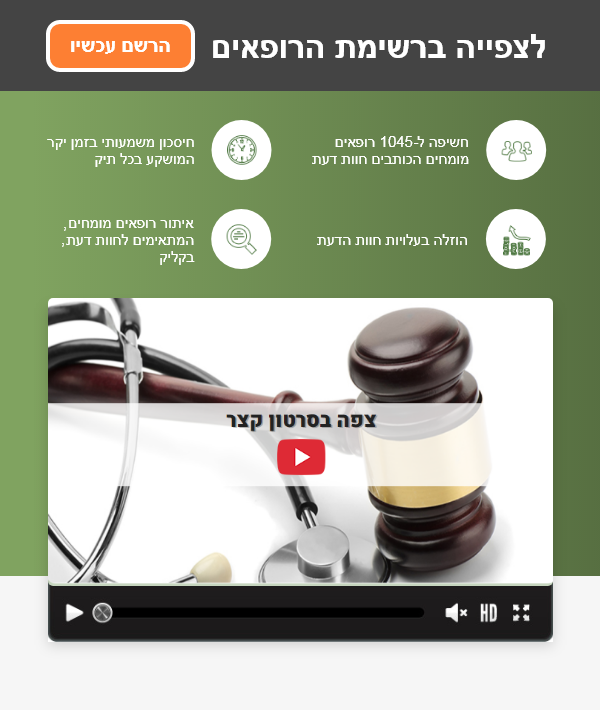
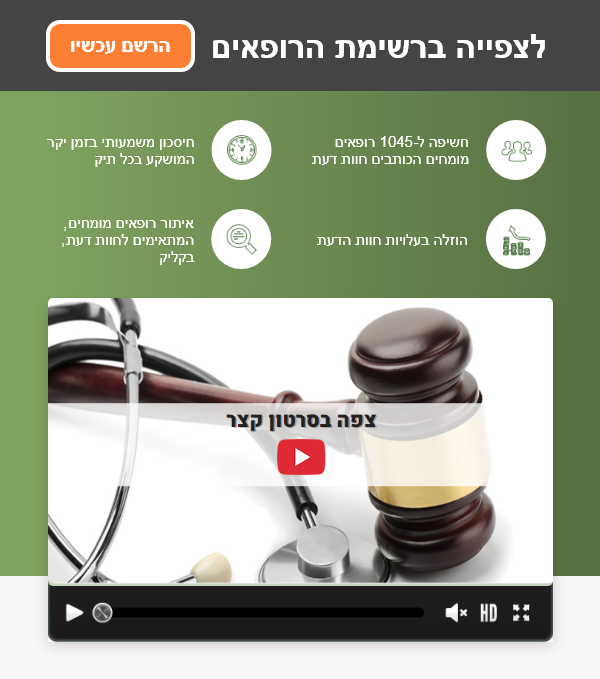
more fixed

diff --git a/index.html b/index.html
@@ -241,6 +241,9 @@
                             </tr>
                             <!-- name value -->
 
+
+
+
                             <tr>
                                 <td class="pt-35 pb-45" bgcolor="#f6f6f6"
                                     style="padding: 10px 15px 74px; padding-bottom: 0px">
@@ -318,9 +321,8 @@
                                         <center>
                                             <img src="inside.png" width="600" alt="לצפייה ברשימת הרופאים הרשם עכשיו"
                                                 style="background-color:#789C5B;
-                                                 color:#FFFFFF; font-size:21px; font-family: Cambria, 'Hoefler Text',
-                                                 font-size:21px; font-family: arial, helvetica, sans-serif,
-                                                 'Liberation Serif', Times,
+                                                 color:#FFFFFF;   font-size:21px; font-family: arial, helvetica, sans-serif,
+                                              
                                                   'Times New Roman', serif; margin-left:0;
                                                   margin-right:0;margin-top:0;margin-bottom:0;padding-left:0;padding-right:0;
                                                   padding-top:0;padding-bottom:0;outline:none;-ms-interpolation-mode:bicubic;width:auto;max-width:100%;float:left;
